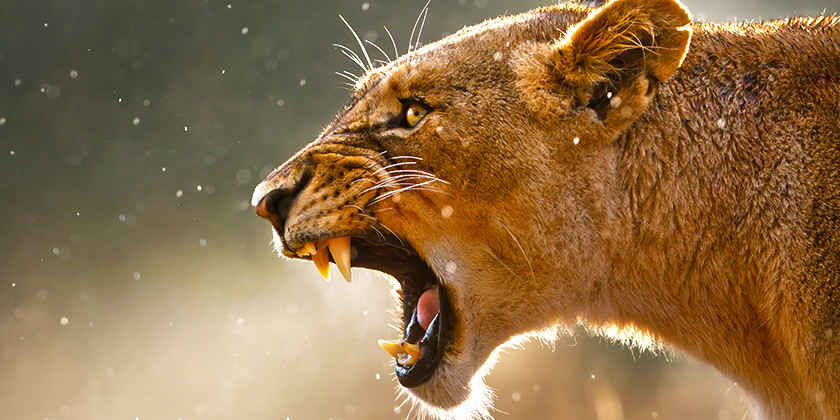
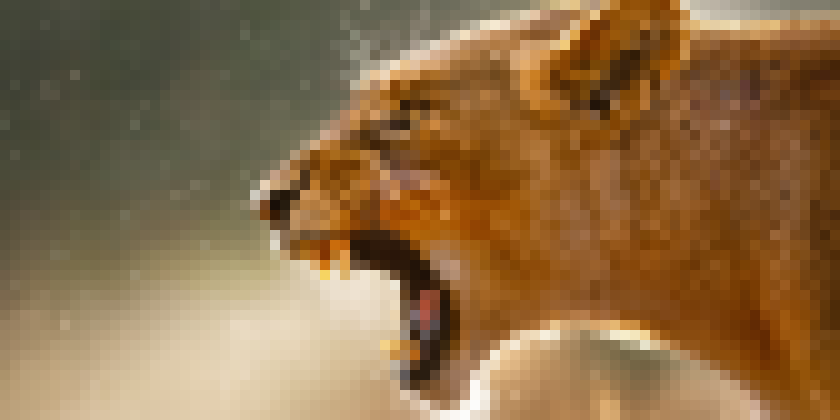
🔧 Fixed issue with blurring: was using integer rgb instead of r, g, b

diff --git a/src/Main.java b/src/Main.java
@@ -1,3 +1,4 @@
+import java.awt.Color;
 import java.awt.Graphics2D;
 import java.awt.Image;
 import java.awt.image.BufferedImage;
@@ -38,6 +39,7 @@ public class Main {
     static boolean isMultiThreaded;
 
     public static void main(String[] args) throws IOException {
+
 	try {
 	    if (args[0].equals("help"))
 		printHelp();
@@ -82,21 +84,41 @@ public class Main {
     }
 
     static void horizontalBlur(int xPixel, int yPixel) {
-	long sum = 0;
+	// Total sum of pixels
+	LongColor sumColor = new LongColor(new Color(0, 0, 0));
+
+	// adding pixels
+	for (int i = xPixel; i < xPixel + size; i++) {
+	    Color rgb = new Color(image.getRGB(i, yPixel));
+	    sumColor.add(rgb);
+	}
+
+	// find average
+	sumColor.div(size);
+
+	// set pixels
 	for (int i = xPixel; i < xPixel + size; i++)
-	    sum += image.getRGB(i, yPixel);
-	sum /= size;
-	for (int i = xPixel; i < xPixel + size; i++)
-	    image.setRGB(i, yPixel, (int) sum);
+	    image.setRGB(i, yPixel, sumColor.getColor().getRGB());
+
     }
 
     static void verticalBlur(int xPixel, int yPixel) {
-	long sum = 0;
+	// Total sum of pixels
+	LongColor sumColor = new LongColor(new Color(0, 0, 0));
+
+	// adding pixels
+	for (int i = yPixel; i < yPixel + size; i++) {
+	    Color rgb = new Color(image.getRGB(xPixel, i));
+	    sumColor.add(rgb);
+	}
+
+	// find average
+	sumColor.div(size);
+
+	// set pixels
 	for (int i = yPixel; i < yPixel + size; i++)
-	    sum += image.getRGB(xPixel, i);
-	sum /= size;
-	for (int i = yPixel; i < yPixel + size; i++)
-	    image.setRGB(xPixel, i, (int) sum);
+	    image.setRGB(xPixel, i, sumColor.getColor().getRGB());
+
     }
 
     static void processMode(String args) {
@@ -143,6 +165,43 @@ public class Main {
     }
 
     // AUX METHODS
+    static class LongColor {
+	long R;
+	long G;
+	long B;
+
+	public LongColor(Color c) {
+	    setColor(c);
+	}
+
+	public Color getColor() {
+	    return new Color((int) R, (int) G, (int) B);
+	}
+
+	public void setColor(Color c) {
+	    R = c.getRed();
+	    G = c.getGreen();
+	    B = c.getBlue();
+	}
+
+	public void add(Color c) {
+	    R += c.getRed();
+	    G += c.getGreen();
+	    B += c.getBlue();
+	}
+
+	public void div(int n) {
+	    R /= n;
+	    G /= n;
+	    B /= n;
+	}
+
+	@Override
+	public String toString() {
+	    return "(" + R + ", " + G + ", " + B + ")";
+	}
+
+    }
 
     public static BufferedImage resize(BufferedImage img, int newW, int newH) {
 	Image tmp = img.getScaledInstance(newW, newH, Image.SCALE_SMOOTH);
